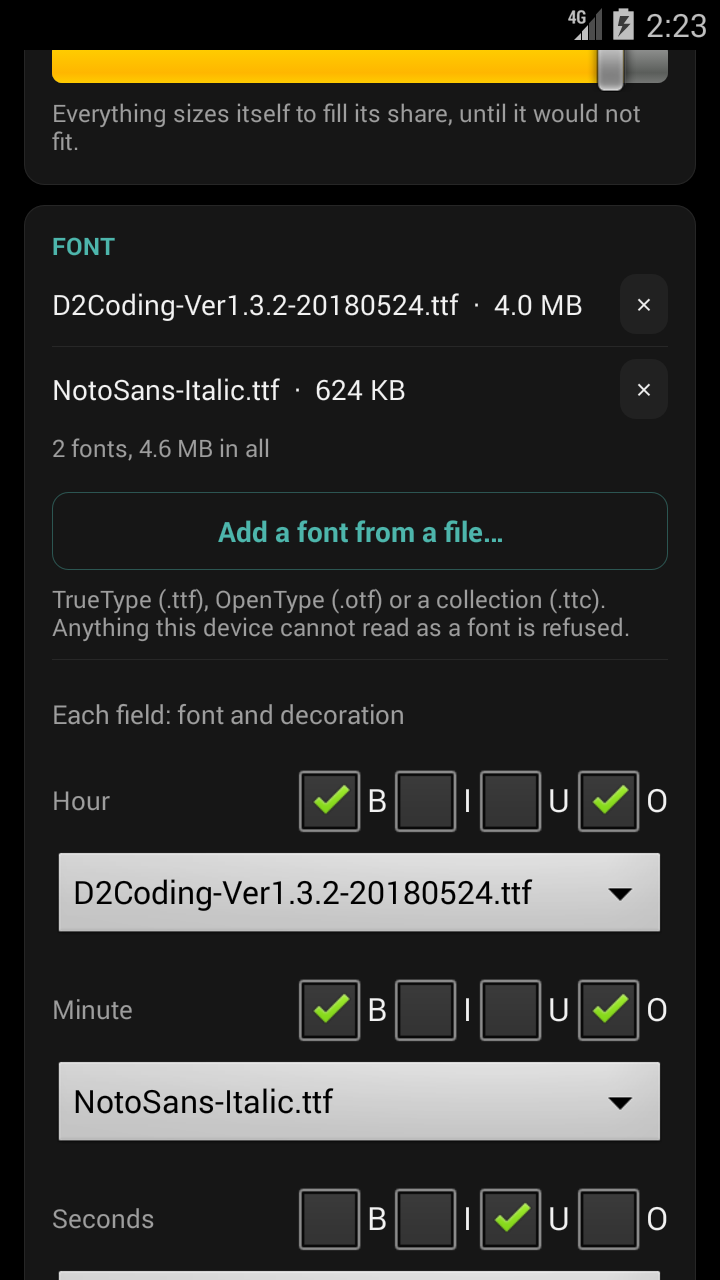
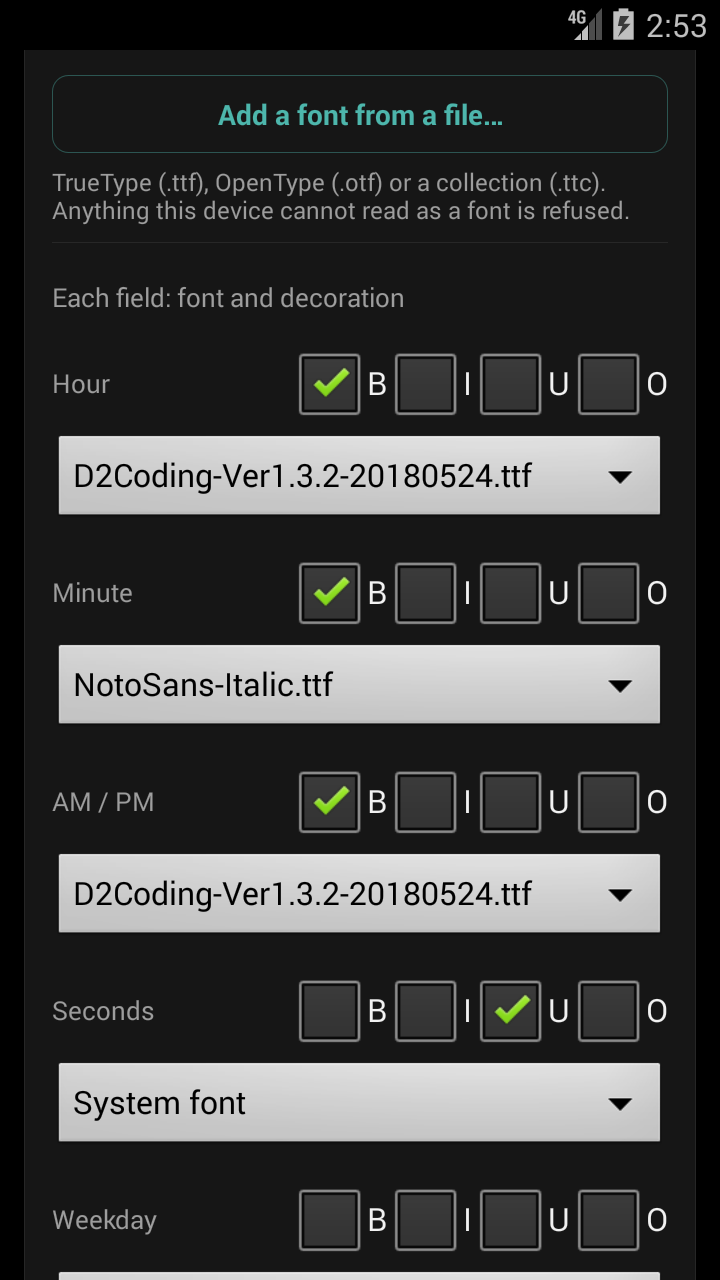
Retake the two settings shots on the current layout
The screensaver row sits at the top now, the date format reads side by
side, the wander switch exists, and the field list has AM / PM and the
calendar's three parts in it — none of which the shots taken four
commits ago show. The Fonts page is also its own screen, so the second
shot comes from there rather than from halfway down the general
settings.

diff --git a/README.ko.md b/README.ko.md
@@ -157,7 +157,7 @@ F-Droid에 게시되어 있고, 최신 릴리즈는 0.20.0입니다.
 없으니, 넣어 두신 그림이나 글꼴 때문에 시계가 쓸 수 없게 되었을 때 돌아올 문이 필요하기 때문입니다.
 시계가 응답을 멈춘 적이 있다면, 다음 실행은 그림과 글꼴을 빼고 시작하며 그 사실을 알려 드립니다.
 
-<img src="docs/screenshots/settings.png" alt="설정: 초 표시, 12시간제 선택, 날짜 형식, 그리고 문구 표시 스위치" width="240"> <img src="docs/screenshots/fields.png" alt="설정 아래쪽: 글꼴별 용량과 합계를 보여 주는 글꼴 목록, 그 아래 항목마다 두 줄 — 이름과 굵게·기울임·밑줄·외곽선, 그리고 글꼴" width="240">
+<img src="docs/screenshots/settings.png" alt="설정: 맨 위 화면보호기 항목, 그 아래 초 표시와 12시간제 선택, 가로로 나란한 날짜 형식, 그리고 화면 보호를 위한 이동 스위치" width="240"> <img src="docs/screenshots/fields.png" alt="글꼴 페이지: 글꼴별 용량과 합계를 보여 주는 목록, 그 아래 항목마다 두 줄 — 이름과 굵게·기울임·밑줄·외곽선, 그리고 글꼴 — AM / PM과 달력의 세 부분까지" width="240">
 
 화면에 나오는 순서대로 적었습니다.
 

diff --git a/README.md b/README.md
@@ -158,7 +158,7 @@ on its face, so if a picture or a font you added ever makes it unusable, this is
 And if the clock does stop answering, the next start leaves your images and fonts out and says so,
 so you can undo whatever caused it.
 
-<img src="docs/screenshots/settings.png" alt="Settings: show seconds, the twelve-hour option, the date format and the saying switch" width="240"> <img src="docs/screenshots/fields.png" alt="Settings, further down: the font library with each font's size and the total, then each field on two lines — its name with bold, italic, underline and outline, and its font" width="240">
+<img src="docs/screenshots/settings.png" alt="Settings: the screensaver row at the top, then show seconds, the twelve-hour option, the date format side by side, and the switch that lets the clock wander" width="240"> <img src="docs/screenshots/fields.png" alt="The Fonts page: the font library with each font's size and the total, then each field on two lines — its name with bold, italic, underline and outline, and its font — including AM / PM and the calendar's three parts" width="240">
 
 In the order they appear on the screen.
 
